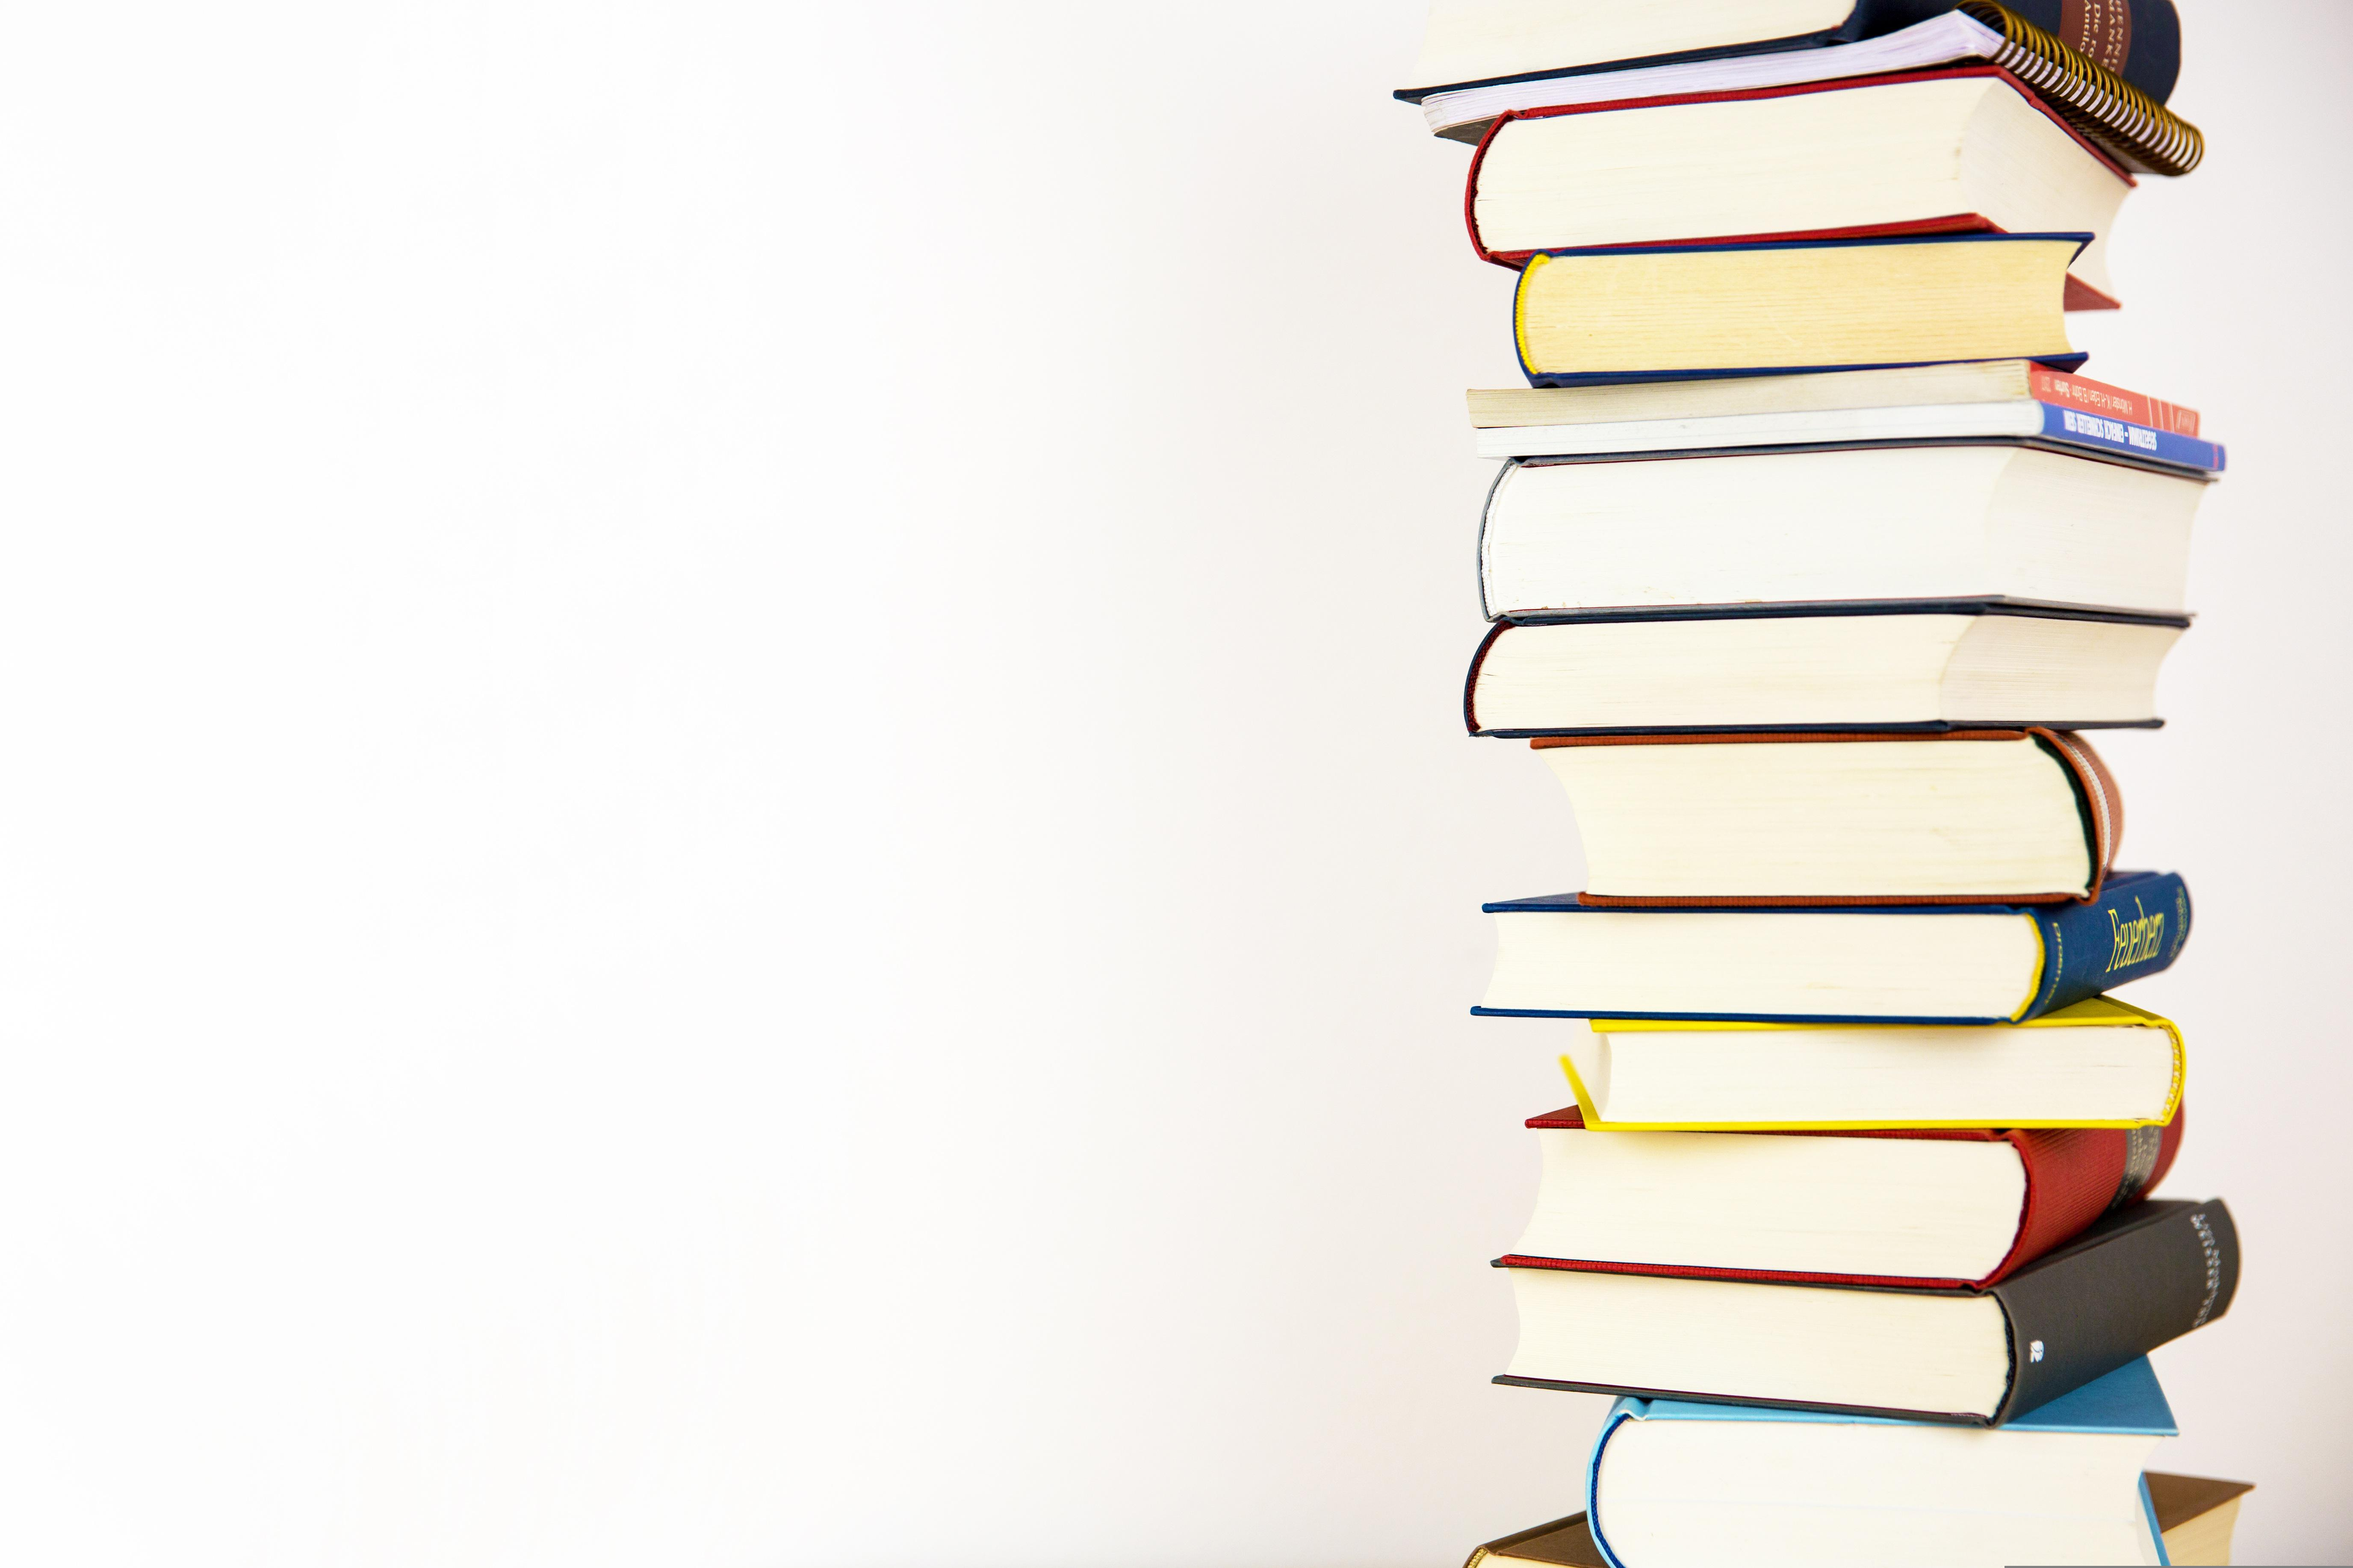
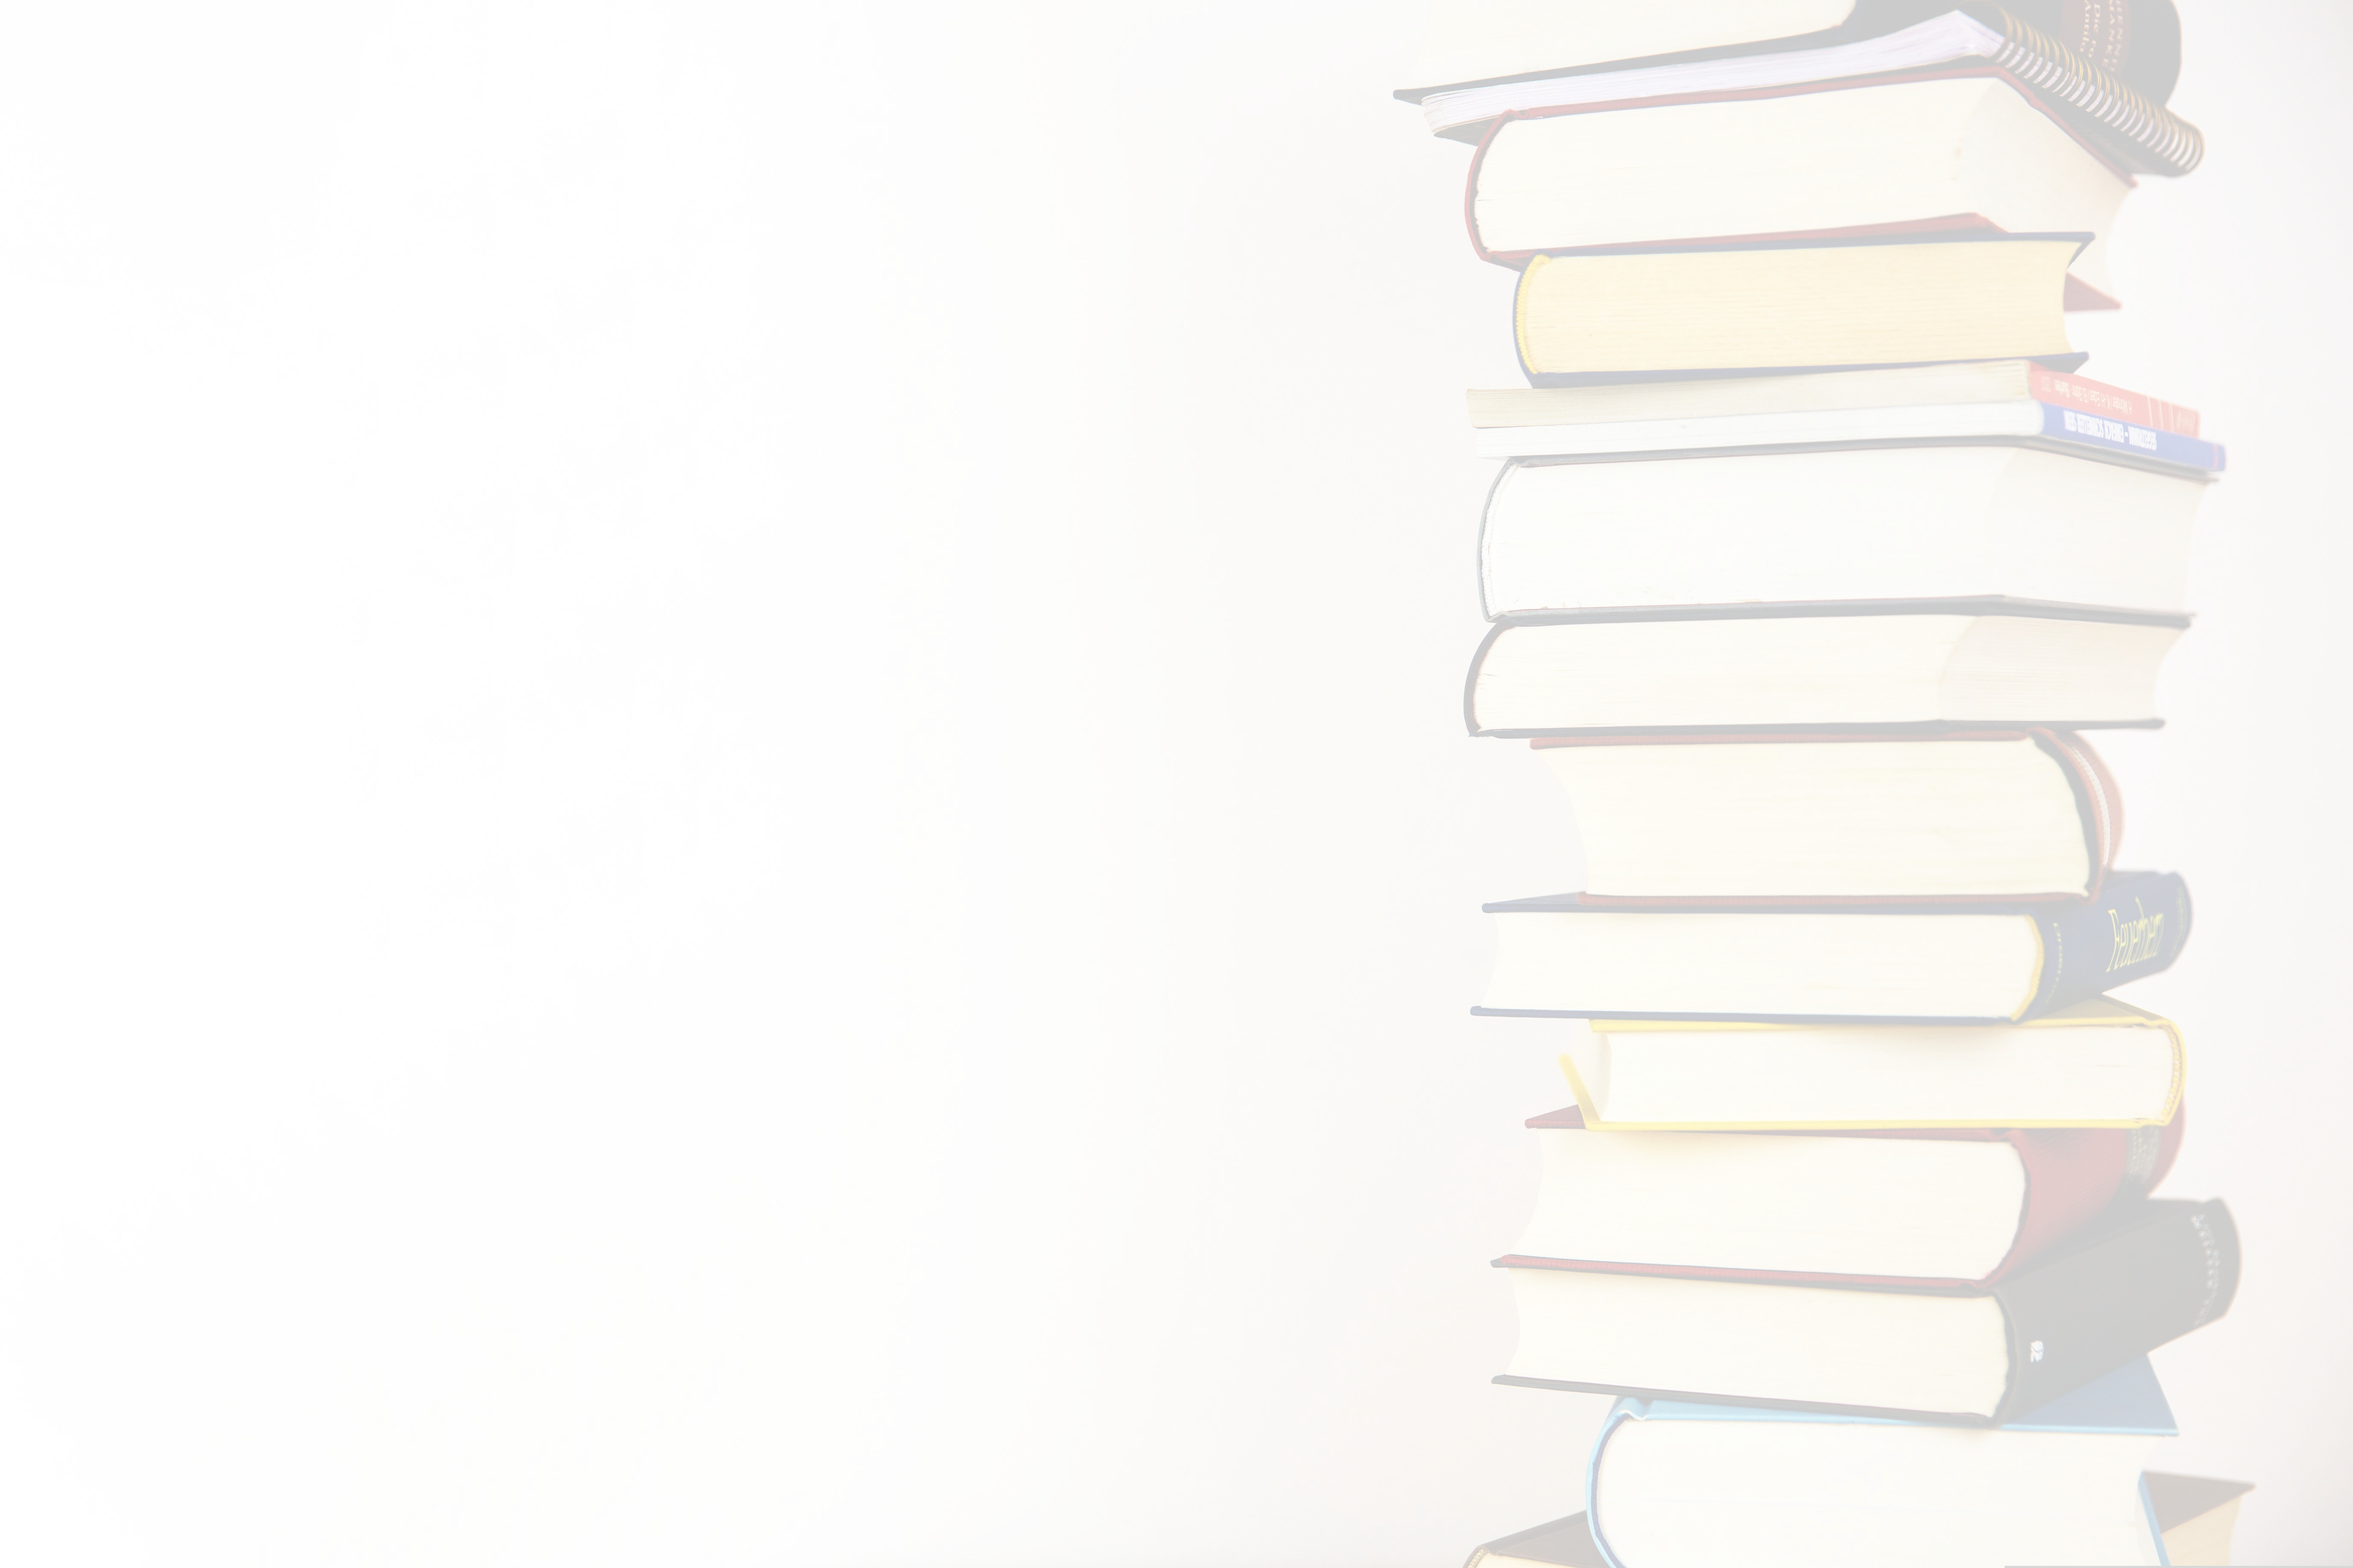
Set background image

Changed region(s): [[0.5283, 0.3729, 1.0, 1.0], [0.5904, 0.0, 0.9633, 0.3418], [0.9633, 0.0, 1.0, 0.0621]]

diff --git a/frontend/pages/_document.tsx b/frontend/pages/_document.tsx
@@ -2,7 +2,7 @@ import { Html, Head, Main, NextScript } from 'next/document'
 
 export default function Document() {
   return (
-    <Html lang="en">
+    <Html lang="en" className="bg-book-image bg-cover bg-center bg-no-repeat bg-fixed bg-white h-screen">
       <Head />
       <body>
         <Main />

diff --git a/frontend/components/layout/Layout.tsx b/frontend/components/layout/Layout.tsx
@@ -17,7 +17,7 @@ const Layout = ({
       <Head>
         <title>{title}</title>
       </Head>
-      <div id={id}>
+      <div id={id} className="bg-book-image bg-cover bg-center bg-no-repeat bg-fixed bg-white h-screen">
         <Header />
         {children}
       </div>

diff --git a/frontend/tailwind.config.js b/frontend/tailwind.config.js
@@ -9,7 +9,11 @@ module.exports = {
     "./src/**/*.{js,ts,jsx,tsx,mdx}",
   ],
   theme: {
-    extend: {},
+    extend: {
+        backgroundImage: {
+            'book-image': "url('/images/background_index.jpg')",
+          }
+    },
   },
   plugins: [],
 };
